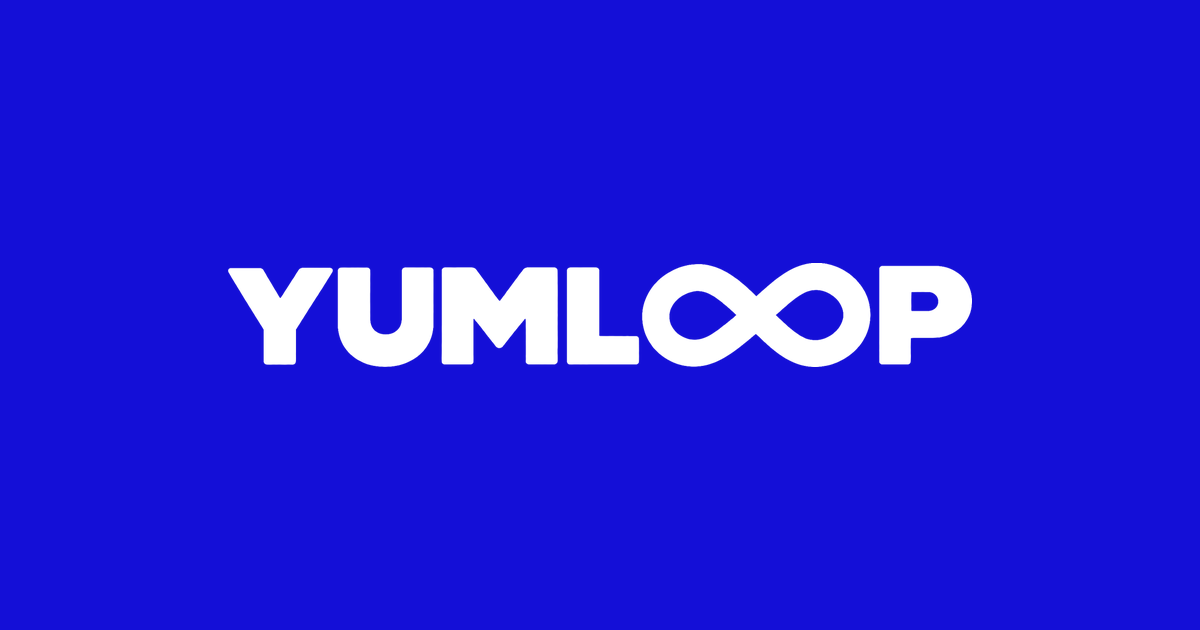
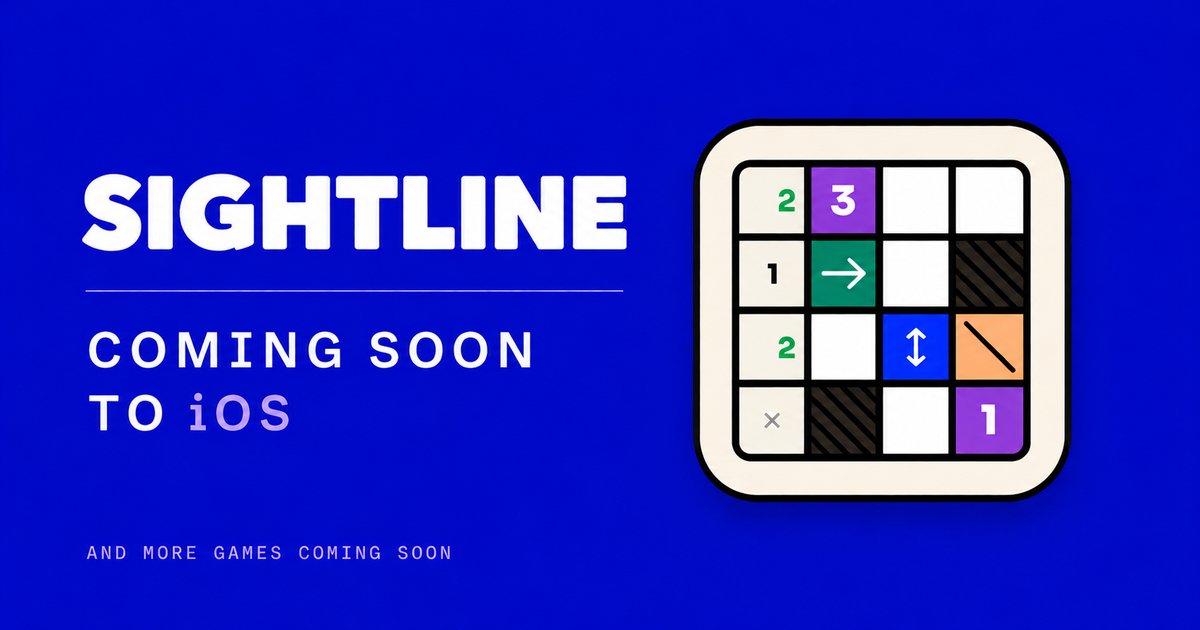
Replace coming-soon line with the Sightline block
Logotype and board illustration cut from the supplied banner; supporting
copy set as real text so it stays legible and selectable on mobile.

Changed region(s): [[0.0617, 0.181, 0.925, 0.8444], [0.0617, 0.8444, 0.37, 0.9048]]

diff --git a/index.html b/index.html
@@ -4,13 +4,13 @@
 <meta charset="utf-8">
 <meta name="viewport" content="width=device-width, initial-scale=1">
 <title>Yumloop</title>
-<meta name="description" content="Yumloop — games coming soon.">
+<meta name="description" content="Yumloop — an independent studio of one. Sightline, a logic puzzle, coming soon to iOS.">
 <meta name="theme-color" content="#140FD7">
 <link rel="canonical" href="https://yumloop.net/">
 <meta property="og:type" content="website">
 <meta property="og:site_name" content="Yumloop">
 <meta property="og:title" content="Yumloop">
-<meta property="og:description" content="Games coming soon.">
+<meta property="og:description" content="Sightline, a logic puzzle, coming soon to iOS. And more games coming soon.">
 <meta property="og:url" content="https://yumloop.net/">
 <meta property="og:image" content="https://yumloop.net/og.png">
 <meta name="twitter:card" content="summary_large_image">
@@ -21,67 +21,123 @@
 <link rel="preconnect" href="https://fonts.gstatic.com" crossorigin>
 <link href="https://fonts.googleapis.com/css2?family=Archivo:wght@500;600&family=JetBrains+Mono:wght@500&display=swap" rel="stylesheet">
 <style>
+  :root{
+    --blue:#140FD7;
+    --lilac:#BFA6FD;
+    --sans:Archivo,-apple-system,BlinkMacSystemFont,"Helvetica Neue",Arial,sans-serif;
+    --mono:"JetBrains Mono",ui-monospace,SFMono-Regular,Menlo,monospace;
+  }
+
   *,*::before,*::after{box-sizing:border-box}
-  html,body{height:100%}
+  html{-webkit-text-size-adjust:100%}
   body{
-    margin:0;
-    background:#140FD7;
-    color:#fff;
-    font-family:Archivo,-apple-system,BlinkMacSystemFont,"Helvetica Neue",Arial,sans-serif;
-    display:flex; flex-direction:column; align-items:center; justify-content:center;
-    text-align:center; padding:clamp(24px,6vw,64px);
-    position:relative;
+    margin:0; min-height:100svh;
+    background:var(--blue); color:#fff;
+    font-family:var(--sans);
+    display:flex; flex-direction:column;
     -webkit-font-smoothing:antialiased;
   }
-  img{width:min(620px,78vw); height:auto; display:block}
-  p{
-    font-family:"JetBrains Mono",ui-monospace,SFMono-Regular,Menlo,monospace;
-    font-size:clamp(11px,1.5vw,13px); font-weight:500;
-    letter-spacing:.24em; text-transform:uppercase;
-    color:rgba(255,255,255,.78);
-    margin:clamp(26px,4vw,40px) 0 clamp(44px,6vw,64px);
+  img{max-width:100%; height:auto; display:block}
+  :focus-visible{outline:2px solid #fff; outline-offset:4px}
+
+  .stage{
+    flex:1;
+    display:flex; flex-direction:column; align-items:center; justify-content:center;
+    text-align:center; padding:clamp(36px,6vw,72px) clamp(20px,5vw,64px) clamp(24px,4vw,48px);
   }
-  .actions{display:flex}
+
+  .brand{width:min(360px,56vw); margin-bottom:clamp(38px,6vw,72px)}
+
+  /* --- Sightline block --- */
+  .game{
+    display:grid; grid-template-columns:auto auto;
+    align-items:center; justify-content:center;
+    gap:clamp(30px,5vw,76px);
+    width:100%;
+  }
+  .copy{text-align:left; max-width:440px}
+  .copy .mark{width:min(420px,40vw)}
+  .rule{height:1px; background:rgba(255,255,255,.38); border:0; margin:clamp(18px,2.4vw,30px) 0}
+  .soon{
+    margin:0; font-weight:600; text-transform:uppercase;
+    font-size:clamp(16px,2vw,27px); letter-spacing:.15em; line-height:1.32;
+  }
+  .soon span{color:var(--lilac); text-transform:none}
+  .board{width:clamp(220px,27vw,330px)}
+
+  @media (max-width:860px){
+    .game{grid-template-columns:1fr; justify-items:center; gap:clamp(28px,6vw,44px)}
+    .copy{text-align:center; max-width:none}
+    /* keep the studio wordmark reading larger than the game's */
+    .brand{width:min(360px,64vw); margin-bottom:clamp(46px,9vw,64px)}
+    .copy .mark{width:min(290px,54vw); margin-inline:auto}
+    .board{width:min(290px,62vw)}
+  }
+
+  .more{
+    margin:clamp(34px,5vw,56px) 0 0;
+    font-family:var(--mono); font-size:clamp(10px,1.1vw,12px); font-weight:500;
+    letter-spacing:.24em; text-transform:uppercase; color:rgba(255,255,255,.55);
+  }
+
+  /* --- actions --- */
+  .actions{display:flex; margin-top:clamp(30px,4vw,44px)}
   .actions a{
     display:inline-block; text-decoration:none;
     font-weight:600; font-size:15.5px; letter-spacing:.01em;
     padding:15px 34px; border:1px solid #fff;
     transition:background .15s linear, color .15s linear;
   }
-  .actions a.solid{background:#fff; color:#140FD7}
+  .actions a.solid{background:#fff; color:var(--blue)}
   .actions a.solid:hover{background:transparent; color:#fff}
   .actions a.line{background:transparent; color:#fff; border-left:0}
-  .actions a.line:hover{background:#fff; color:#140FD7}
-  .actions a:focus-visible{outline:2px solid #fff; outline-offset:4px}
+  .actions a.line:hover{background:#fff; color:var(--blue)}
   @media (max-width:520px){
     .actions{flex-direction:column; width:100%; max-width:320px}
     .actions a.line{border-left:1px solid #fff; border-top:0}
   }
 
+  /* --- footer --- */
   .foot{
-    position:absolute; left:0; right:0; bottom:0;
     display:flex; justify-content:center; gap:26px; flex-wrap:wrap;
-    padding:24px var(--gutter, clamp(24px,6vw,64px));
+    padding:0 clamp(20px,5vw,64px) 26px;
   }
   .foot a{
-    font-family:"JetBrains Mono",ui-monospace,SFMono-Regular,Menlo,monospace;
-    font-size:11px; font-weight:500; letter-spacing:.16em; text-transform:uppercase;
+    font-family:var(--mono); font-size:11px; font-weight:500;
+    letter-spacing:.16em; text-transform:uppercase;
     color:rgba(255,255,255,.5); text-decoration:none;
   }
   .foot a:hover,.foot a:focus-visible{color:#fff}
 </style>
 </head>
 <body>
-  <img src="yumloop-logo.png" alt="Yumloop" width="1400" height="196">
-  <p>Games coming soon</p>
+
+<main class="stage">
+  <img class="brand" src="yumloop-logo.png" alt="Yumloop" width="1400" height="196">
+
+  <section class="game" aria-label="Sightline">
+    <div class="copy">
+      <img class="mark" src="sightline-logo.png" alt="Sightline" width="1200" height="172">
+      <hr class="rule">
+      <p class="soon">Coming soon to <span>iOS</span></p>
+    </div>
+    <img class="board" src="sightline-board.png"
+         alt="A Sightline puzzle board: a four-by-four grid with numbered clues down the left edge and coloured tiles marking blockers and directions."
+         width="840" height="868">
+  </section>
+
+  <p class="more">And more games coming soon</p>
+
   <div class="actions">
     <a class="solid" href="mailto:yoni@yumloop.net?subject=Hello%20Yumloop">Contact</a>
-    <a class="line" href="mailto:yoni@yumloop.net?subject=Launch%20note&amp;body=Let%20me%20know%20when%20there's%20something%20to%20play.">Launch note</a>
+    <a class="line" href="mailto:yoni@yumloop.net?subject=Launch%20note&amp;body=Let%20me%20know%20when%20Sightline%20is%20out.">Launch note</a>
   </div>
+</main>
 
-  <nav class="foot" aria-label="Site">
-    <a href="/privacy.html">Privacy</a>
-    <a href="/support.html">Support</a>
-  </nav>
+<nav class="foot" aria-label="Site">
+  <a href="/privacy.html">Privacy</a>
+  <a href="/support.html">Support</a>
+</nav>
+
 </body>
 </html>

diff --git a/README.md b/README.md
@@ -16,8 +16,10 @@ Plain static HTML — no build step, no dependencies. Hosted on GitHub Pages.
 | `404.html` | Branded not-found page. |
 | `yumloop-logo.png` | Wordmark, white on transparent (1400×196), cleaned and trimmed from the source art. |
 | `yumloop-mark.png` | The ∞ loop alone — icon source and spare asset. |
+| `sightline-logo.png` | Sightline logotype, white on transparent, cut from the source banner. |
+| `sightline-board.png` | The puzzle-board illustration, background keyed out so it sits on any blue. |
 | `favicon-32.png`, `favicon-192.png`, `apple-touch-icon.png`, `icon-512.png` | White loop on electric blue. |
-| `og.png` | 1200×630 link preview card. |
+| `og.png` | 1200×630 link preview card, cropped from the Sightline banner. |
 | `CNAME` | Tells GitHub Pages the custom domain. |
 | `robots.txt`, `sitemap.xml` | Basic SEO. |
 | `_archive/full-site.html` | The longer About / Sightline / Contact page, parked for later. Not published. |
